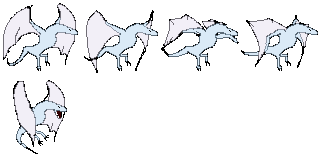
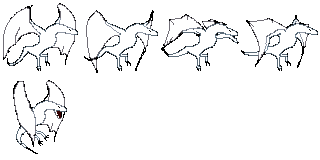
change level6

diff --git a/js/entity/Monster.js b/js/entity/Monster.js
@@ -77,7 +77,7 @@ const MONSTERS = [{
             return 501;},
         function(e){
             e.vx=e.getTargetDir()*30;
-            let effect = new Particle(5, e.x-e.w/2, e.y-e.h/2);effect.w=e.h*2;effect.h=e.h*2;
+            let effect = new Particle(5, e.x-e.w, e.y-e.h);effect.w=e.h*3;effect.h=e.h*3;
             let noMatter = new Entity(effect.x,effect.y,Game.PHYSICS_CHANNEL);
             noMatter.w=effect.w;noMatter.h=effect.h;
             noMatter.collisionHandler=function(v){if(v instanceof Matter)v.throw();return false;}
@@ -86,25 +86,32 @@ const MONSTERS = [{
     ]
 },
 {
-    name: "투명드래곤",
-    image: {name:"invisible_wyvern",w:80,h:80,frame:16,MAX_X:[4,1]},
-    setStatus: function(e){e.w=300;e.h=300;e.life=10000000;e.power=4000;e.speed=6;e.inv_mass=0.1;e.ga=0;e.canDraw=false;},
+    name: "골드드래곤",
+    image: {name:"golden_dragon",w:80,h:80,frame:16,MAX_X:[4,1]},
+    setStatus: function(e){e.w=300;e.h=300;e.life=10000000;e.power=2000;e.speed=5;e.inv_mass=0.1;e.ga=0;e.brightness=6},
     attackEffect: function(e,v){},
     skillList: [
         function(e){e.AI2(4);return 50;},
-        function(e){if(!e.canTarget())return 70;let m=e.createMatterToTarget(5,e.getTargetDir()*1.5,0,30);m.power=1000;m.life=50;return 300;},
+        function(e){if(!e.canTarget())return 70;let m=e.createMatterToTarget(5,e.getTargetDir()*1.5,0,30);m.power=500;m.life=50;m.vx*=0.5;m.vy*=0.5;return 500;},
         function(e){
-            e.canInteract=false;
+            if(!e.canTarget())return 70;
+            let block=new Block(e.target.x-30,-3000,100,300,"rgba(255, 229, 0,0.5)");
+            block.collisionHandler=function(e){if(e instanceof Monster&&e.typenum==5)return false;e.giveDamage(3000);return true;}
+            block.brightness=5;
+            block.vy=-30;
+            return 1000;
+        },
+        function(e){
             for(let i=0; i<10; i++){
                 for(let j=0; j<20; j++){
-                    let block=new Block(800+j*20,-1000+i*20,50,50,"rgba(252, 64, 12,0.5)");
+                    let block=new Block(e.x+j*10,e.y+i*10,50,50,"rgba(255, 229, 0,0.5)");
                     block.giveForce=function(){};
+                    block.collisionHandler=function(e){if(e instanceof Monster&&e.typenum==5)return false;e.giveDamage(1000);return true;}
                     block.brightness=1;
                     block.canRemoved=false;
                     block.addAction(1000,1000,function(){block.canRemoved=true;});
                 }
             }
-            e.addAction(1000,1000,function(){e.canInteract=true;e.x=1000;e.y=-500;})
             return 3000;}
     ]
 }

diff --git a/js/game/Level.js b/js/game/Level.js
@@ -95,7 +95,7 @@ let Level= {
                 break;
             case 6:
                 Level.createMainMonster(5,Screen.perX(50), -400);
-                Screen.bgColor="#424146";
+                Screen.bgColor="rgb(5,5,35)";
                 Component.worldWall(3000,2000,300);
                 Component.shader();
                 break;
